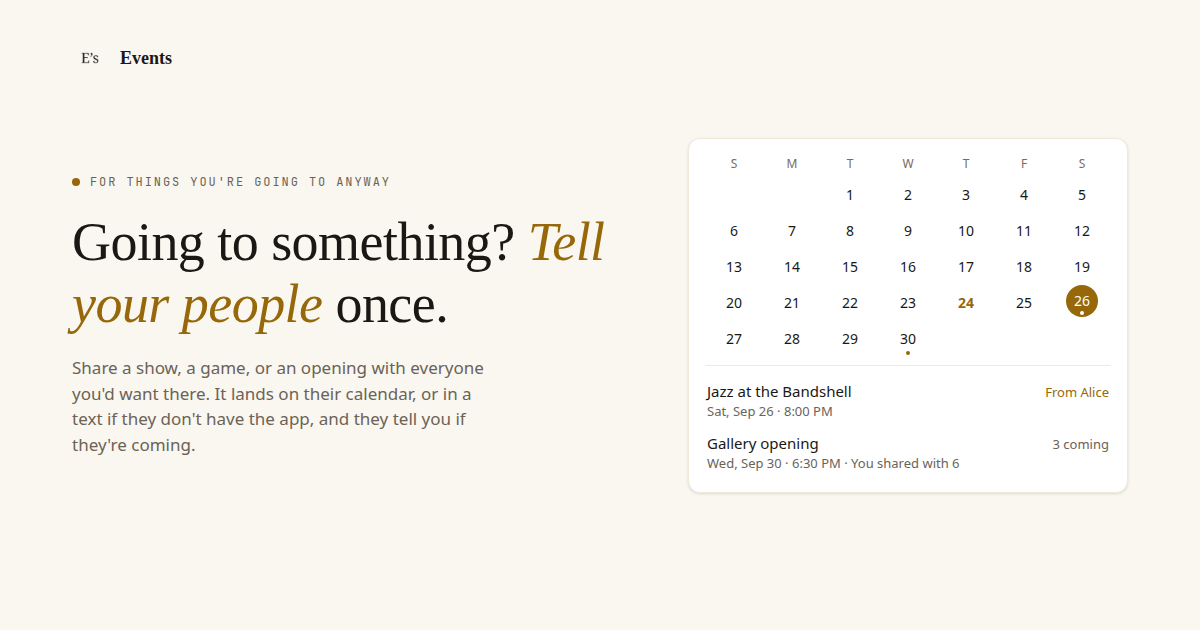
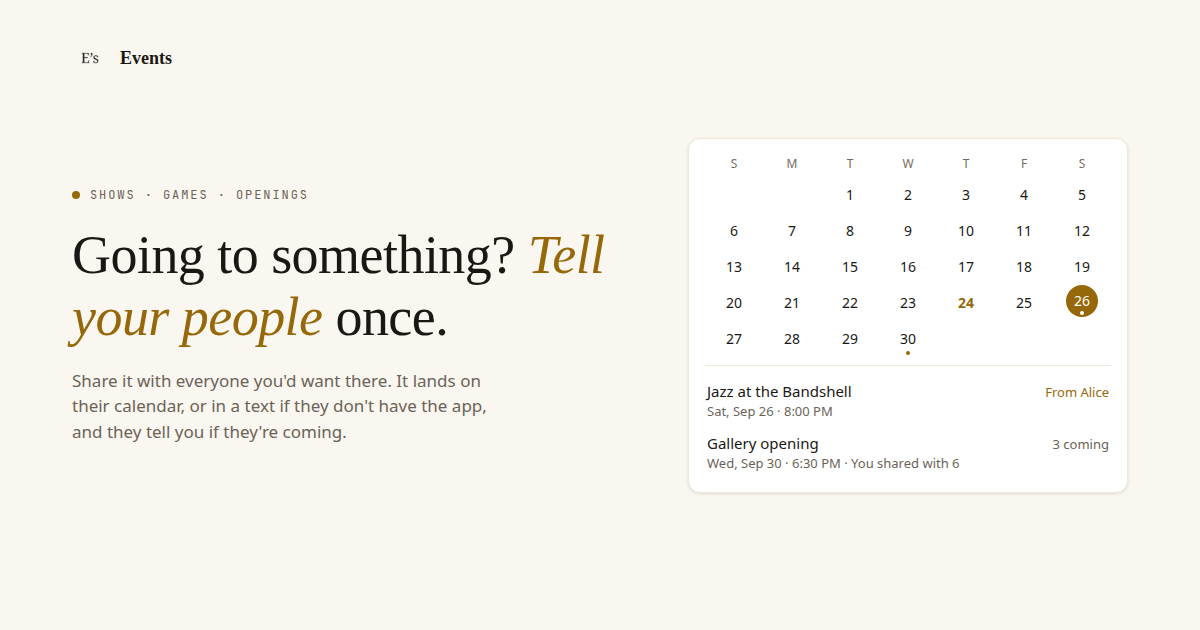
Landing: quieter eyebrow (Shows · games · openings); sub drops the duplicate list
Owner review of the preview: 'For things you're going to anyway' read as
too prominent. The eyebrow is now a short label, and the preview card is
regenerated to match.

Changed region(s): [[0.0617, 0.2714, 0.5242, 0.5429], [0.0617, 0.573, 0.4008, 0.7238]]

diff --git a/apps/events/e2e/landing.spec.ts b/apps/events/e2e/landing.spec.ts
@@ -65,14 +65,16 @@ test('renders Paper by default with the mock, signup CTA, fallback, and footer',
   await expect(hero).toHaveText('Going to something? Tell your people once.');
   expect(await hero.evaluate((el) => getComputedStyle(el).fontFamily)).toContain('Georgia');
   await expect(page.locator('.sub')).toHaveText(
-    "Share a show, a game, or an opening with everyone you'd want there. It lands on their calendar, or in a text if they don't have the app, and they tell you if they're coming."
+    "Share it with everyone you'd want there. It lands on their calendar, or in a text if they don't have the app, and they tell you if they're coming."
   );
 
   // The eyebrow carries the accent dot; with the italic phrase it is the
   // one new accent spend (owner-approved 2026-09-03). text-transform makes
   // innerText uppercase, so match the copy case-insensitively.
   const eyebrow = page.locator('.eyebrow');
-  await expect(eyebrow).toHaveText(/for things you're going to anyway/i);
+  // A quiet label, not a second slogan (owner 2026-09-24: the "For things
+  // you're going to anyway" pitch read as too prominent).
+  await expect(eyebrow).toHaveText(/shows · games · openings/i);
   expect(await eyebrow.evaluate((el) => getComputedStyle(el, '::before').backgroundColor)).toBe(
     'rgb(150, 104, 10)'
   );

diff --git a/apps/events/landing/index.html b/apps/events/landing/index.html
@@ -498,9 +498,9 @@
 <main>
   <section class="hero">
     <div>
-      <p class="eyebrow">For things you're going to anyway</p>
+      <p class="eyebrow">Shows · games · openings</p>
       <h1>Going to something? <em class="em">Tell your people</em> once.</h1>
-      <p class="sub">Share a show, a game, or an opening with everyone you'd want there. It lands on their calendar, or in a text if they don't have the app, and they tell you if they're coming.</p>
+      <p class="sub">Share it with everyone you'd want there. It lands on their calendar, or in a text if they don't have the app, and they tell you if they're coming.</p>
     </div>
 
     <div class="mock" id="mock" aria-hidden="true">

diff --git a/apps/events/FEATURES.md b/apps/events/FEATURES.md
@@ -2378,7 +2378,7 @@ The landing page's copy was accurate but pitched at the wrong reader. The headli
 ### Solution (owner rulings 2026-09-24)
 
 - **Direction A, sender-first, generic enough to post publicly.** The page is for people arriving from the share text, friends the owner hands the link to, and possibly public posts — it is the launch page.
-- **Hero:** eyebrow, H1 with the italic accent phrase, and a sub that carries the no-app case. The agent writes final copy (owner: "I trust your judgment").
+- **Hero:** eyebrow, H1 with the italic accent phrase, and a sub that carries the no-app case. The agent writes final copy (owner: "I trust your judgment"). Eyebrow revised after preview review (owner 2026-09-24: "For things you're going to anyway" felt too prominent, in your face): it is a quiet label — "Shows · games · openings" — and the sub drops its own copy of that list.
 - **How it works becomes the loop:** 01 find something, 02 pick your people, 03 hear who's in — plus one closing line carrying the old principles (nothing public, quiet by design).
 - **Beta block:** the stale "personally" line is replaced; the CTA stays "Get the beta" (2026-09-05 ruling); install guidance leaves the landing page (the signup confirmation already carries it).
 - **Mock:** may change — it now shows the sender side too (a shared event with who's coming), so the page tells both halves of the loop.
